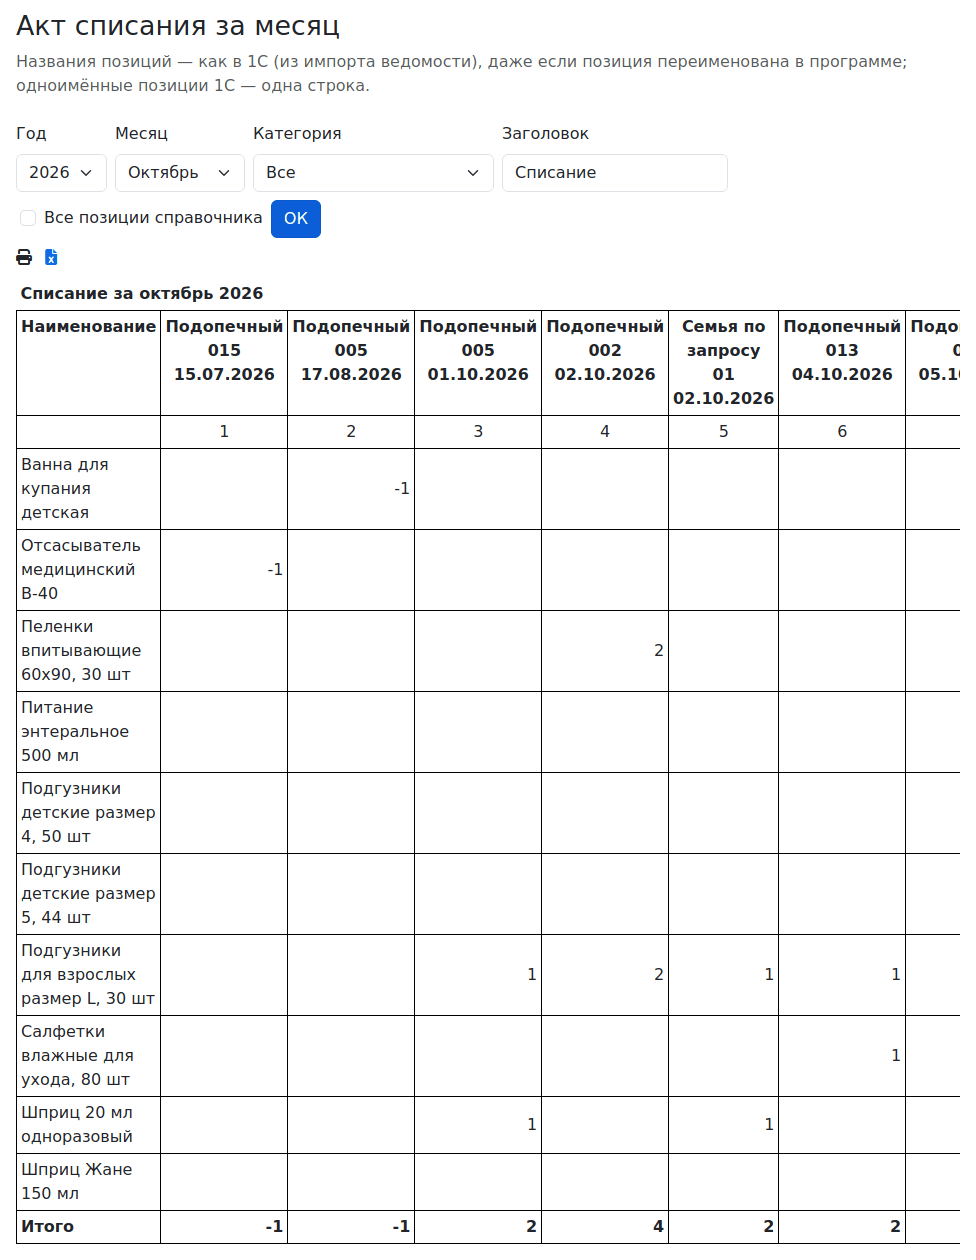
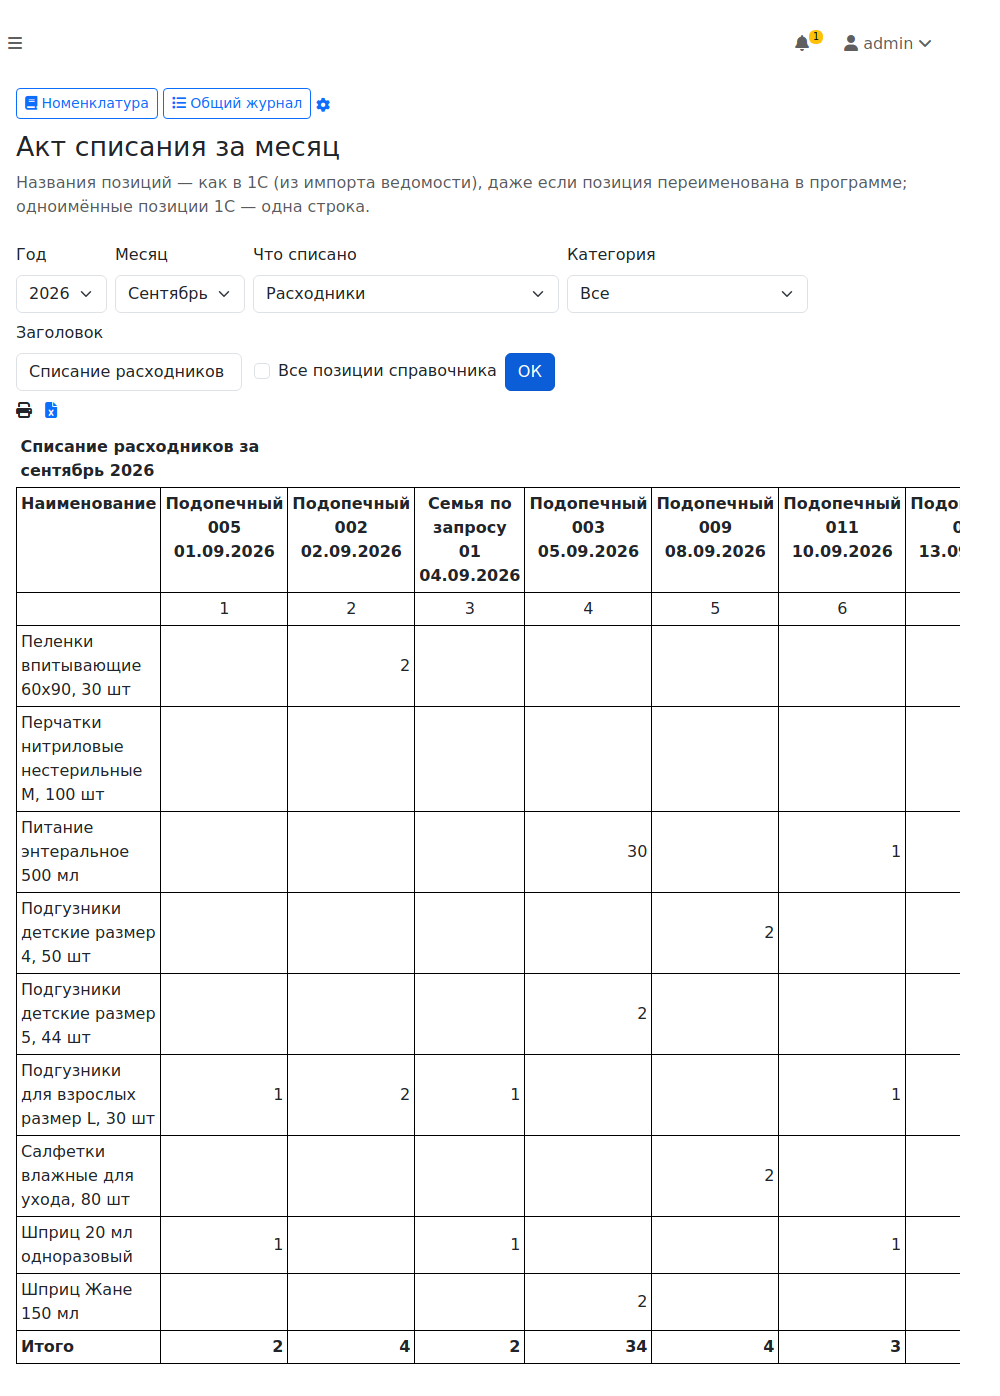
Guides: separate acts, write-offs with reasons, recipient mark, small equipment in reminders
Warehouse guide: "what is written off" in the monthly act, the write-offs report, the recipient mark in the customer list, small equipment in the due reminder; screenshots of the act and the write-offs report on the demo database. General guide and module list updated to match.

diff --git a/docs/GUIDE.ru.md b/docs/GUIDE.ru.md
@@ -56,7 +56,7 @@ SQS_LANG=ru docker compose up -d --build      # http://127.0.0.1:8083, вход 
 
 ## Получатели
 
-Получатель — контрагент в «Справочники → Контрагенты». Признаки получателя — три метки (теги контрагента): «подопечный», «по запросу» (семьи и учреждения вроде пансионата, которым выдают по запросу) и «снят с опеки»; по тегу работает отбор в списке контрагентов и в отчёте «Получатели по месяцам». Справочник проверен на 5 000 контрагентах: список открывается за секунду, подсказка в документе — за доли секунды.
+Получатель — контрагент в «Справочники → Контрагенты». Признаки получателя — три: «подопечный», «по запросу» (семьи и учреждения вроде пансионата, которым выдают по запросу) и «снят с опеки». В профиле благотворительной организации признак выбирается списком «Признак получателя» в форме контрагента и виден рядом с именем в списке; хранится он тегом контрагента, поэтому по нему работает отбор в списке контрагентов («Признаки и теги» над списком) и в отчёте «Получатели по месяцам». В профиле форма контрагента без торговых полей (холдинг, тип цены, ЕГРПОУ, юр. лицо, адрес доставки, подписки, Viber, Telegram) и без режима лидов; тип «Покупатель» называется «Получатель», новый контрагент — сразу получатель. Справочник проверен на 5 000 контрагентах: список открывается за секунду, подсказка в документе — за доли секунды.
 
 ## Расходные материалы
 
@@ -82,7 +82,7 @@ SQS_LANG=ru docker compose up -d --build      # http://127.0.0.1:8083, вход 
 - «Отчёты → Склад → Оборудование: где сейчас» — каждая единица: на каком складе или у какого получателя, с телефоном, адресом, договором и сроком; просроченный срок выделен красным; поиск по модели, инвентарному или заводскому номеру, получателю; заводской номер — отдельной колонкой, в том числе в Excel; над списком — итог по моделям: сколько выдано, на каждом складе («Ремонт», «К списанию»), списано, всего; под списком — «Мелкое оборудование на руках»: позиции без инвентарных номеров, выданные количеством по договору, — у кого, сколько на руках (выдано минус возвращено), последняя выдача, договор и срок;
 - «Отчёты → Склад → Журнал выдачи оборудования» — все выдачи за период с датами возврата; заводской номер — колонкой, поиск по модели, инвентарному или заводскому номеру.
 
-Срок пользования продлевается кнопкой «Продлить» в напоминании на главной и значком в колонке «Срок» отчёта «Где сейчас»: меняется только дата окончания договора, статус «В работе» остаётся, в комментариях договора записывается, кто и когда изменил срок (было → стало). Штатно договор «В работе» не редактируется.
+На главной — напоминание: выданное оборудование, у которого срок договора истёк или истекает в ближайшие две недели; мелкое оборудование, выданное количеством по договору, — тоже, строкой с количеством на руках. Срок пользования продлевается кнопкой «Продлить» в напоминании на главной и значком в колонке «Срок» отчёта «Где сейчас»: меняется только дата окончания договора, статус «В работе» остаётся, в комментариях договора записывается, кто и когда изменил срок (было → стало). Штатно договор «В работе» не редактируется.
 
 ### Перенос истории выдач из таблиц
 
@@ -104,7 +104,8 @@ SQS_LANG=ru docker compose up -d --build      # http://127.0.0.1:8083, вход 
 
 ## Отчёты
 
-- **Акт списания за месяц** — в формате бухгалтерии: строки — позиции, колонки — выдачи «Получатель дд.мм.гггг», итоги; возвраты вычитаются. Отбор по категории (отдельные акты на расходники и оборудование), выгрузка в Excel.
+- **Акт списания за месяц** — в формате бухгалтерии: строки — позиции, колонки — выдачи «Получатель дд.мм.гггг», итоги; возвраты вычитаются. Отдельные акты на расходники и на оборудование: поле «Что списано» — «Расходники» (по умолчанию), «Оборудование (по договорам)» (единицы с инвентарным номером и всё, что выдано по договору, в том числе мелочь количеством) или «Всё вместе»; заголовок по умолчанию меняется вместе с выбором. Отбор по категории, выгрузка в Excel.
+- **Списания с причинами** — документы «Списание ТМЦ» за период: дата, документ, склад, позиция, инвентарный номер, количество и причина (примечание документа). Отбор по категории и по тексту причины, печать и Excel.
 - **Получатели по месяцам** — кто в каком месяце получал: отметка «х», количество или число выдач; отбор по категории, позиции и тегу получателя.
 - **Карточка получателя** — всё по одному подопечному на одной странице: контакты и «кем направлен» (краткое описание договоров), оборудование на руках (единицы и мелкое, договор, срок, кнопка «Продлить»), выданные расходники за период по позициям и по месяцам (за вычетом возвратов; выданное по договору считается оборудованием), выдачи и возвраты со ссылкой на документ, когда можно следующую выдачу по интервалам выдачи. Открывается по ссылке у имени в журнале выдач, значком в справочнике контрагентов или поиском по ФИО и телефону на самой странице; печать и Excel.
 - **Оборот по позициям** — на начало, приход, выдано, возвращено, списано, прочее, на конец, число выдач; с отбором по получателю — что ему выдано за период.

diff --git a/docs/USER_GUIDE.ru.md b/docs/USER_GUIDE.ru.md
@@ -10,7 +10,7 @@
 
 Меню: **Сервисные страницы → Выдача расходников**. Форма короткая, работает и с телефона.
 
-1. «Получатель»: начните вводить имя и выберите из подсказки. Если такого получателя ещё нет, допишите имя полностью: он будет добавлен в справочник.
+1. «Получатель»: начните вводить имя и выберите из подсказки. Если такого получателя ещё нет, допишите имя полностью: он будет добавлен в справочник. Признак («подопечный», «по запросу», «снят с опеки»), адрес и телефон потом укажите в **Справочники → Контрагенты**: щёлкните имя, выберите «Признак получателя», нажмите «Сохранить». Признак виден рядом с именем в списке, по нему можно отобрать список («Признаки и теги» над списком).
 2. Проверьте «Дату» и «Склад».
 3. «Что выдаем»: начните вводить название позиции. В подсказке только то, что есть на складе, с остатком. Укажите количество и нажмите «Добавить». Так добавьте все позиции.
 4. При необходимости заполните «Примечание».
@@ -59,6 +59,10 @@
 ![Списание ТМЦ: причина в примечании](img/outcome.png)
 
 Что увидите: остаток уменьшился; в «Обороте по позициям» — колонка «Списано».
+
+Список списаний с причинами для бухгалтерии — **Отчеты → Склад → Списания с причинами**: «С», «По», при необходимости категория или слово из причины («Причина содержит»), «OK». В таблице дата, документ, склад, позиция, инвентарный номер, количество и причина; значок Excel — над таблицей.
+
+![Списания с причинами за период](img/writeoffs.png)
 
 Неисправное оборудование, которое ещё не решили списывать, переместите на склад «Ремонт» или «К списанию»: **Документы → Склад → Перемещение ТМЦ**. В отчёте «Оборудование: где сейчас» оно будет видно на этом складе.
 
@@ -147,8 +151,8 @@
 Меню: **Отчеты → Склад → Акт списания за месяц**.
 
 1. Выберите «Год» и «Месяц».
-2. «Категория»: для отдельных актов на расходники и на оборудование выберите категорию; «Все» — один акт на всё.
-3. «Заголовок» печатается над таблицей; по умолчанию «Списание».
+2. «Что списано»: «Расходники» (так открывается) — акт на расходные материалы; «Оборудование (по договорам)» — отдельный акт на оборудование: единицы с инвентарным номером и мелочь, выданная по договору; «Всё вместе» — один акт на всё. «Категория» сужает акт ещё больше.
+3. «Заголовок» печатается над таблицей; по умолчанию «Списание расходников» или «Списание оборудования» — меняется вместе с «Что списано», если вы не вписали свой.
 4. Нажмите «OK».
 5. Над таблицей нажмите значок Excel (второй, после принтера) — файл скачается.
 
@@ -158,7 +162,7 @@
 
 ## 8. Напоминания
 
-**Срок пользования оборудованием** — на главной странице (меню «Главная»). В блоке выданное оборудование, у которого срок истёк или истекает в ближайшие две недели: получатель, телефон, договор, «Срок до». Просроченное — красным: «просрочено на N дн.». Позвоните получателю: оформите возврат (раздел 3) или продлите срок.
+**Срок пользования оборудованием** — на главной странице (меню «Главная»). В блоке выданное оборудование, у которого срок истёк или истекает в ближайшие две недели: получатель, телефон, договор, «Срок до». Мелкое оборудование, выданное количеством по договору со сроком, — тоже, с количеством на руках («штук: 2»). Просроченное — красным: «просрочено на N дн.». Позвоните получателю: оформите возврат (раздел 3) или продлите срок.
 
 ![Напоминание на главной: просроченный и истекающие сроки, кнопки «Продлить»](img/main-due.png)
 

diff --git a/docs/MODULES.md b/docs/MODULES.md
@@ -57,11 +57,11 @@ class Hello extends \App\Pages\Base
 
 | Module | What | Tests |
 |---|---|---|
-| `reports` | issue act, recipients by month, turnover by item, below minimum, recipient card | `report-issue-act`, `report-recipient-months`, `report-item-turnover`, `report-below-minimum`, `report-subcategories`, `report-recipient-card` |
+| `reports` | issue act (consumables / equipment), recipients by month, turnover by item, below minimum, write-offs with reasons, recipient card | `report-issue-act`, `report-recipient-months`, `report-item-turnover`, `report-below-minimum`, `report-subcategories`, `report-writeoffs`, `report-recipient-card` |
 | `consumables` | consumables issue, issue intervals (table `sqs_issue_interval`) | `consumables-issue`, `issue-interval` |
 | `import1c` | 1C trial balance import page | `import-1c`, `import-1c-same-name`, `import-1c-date` |
 | `backup` | backup page, scheduled backup to several places (`cli/backup.php` is a wrapper), main page warning (table `sqs_backuplog`) | `backup`, `backup-auto`, `backup-main-warning` |
-| `equipment` | equipment issue by contract, units, where now, issue journal, history import, main page reminder (tables `sqs_unit`, `sqs_eqhistory`) | `equipment-issue`, `equipment-due`, `report-equipment-where`, `report-equipment-journal`, `eqhistory-import`, `eqhistory-write` |
+| `equipment` | equipment issue by contract, units, where now, issue journal, history import, main page reminder incl. small equipment under a contract (tables `sqs_unit`, `sqs_eqhistory`) | `equipment-issue`, `equipment-due`, `report-equipment-where`, `report-equipment-journal`, `eqhistory-import`, `eqhistory-write` |
 
 Platform code outside modules (`www/app/sqs/`): `Hooks`, `Modules`, `Categories`, login security (`Remember`, `LoginGuard`, `Totp`, `TwoFactor` and its pages), the document audit log (`DocAudit`), 1C names (`Item1C`, used by the issue act and the import), serial number stock on the document date (`SerialStock`, called from goods issue and write-off). Its tables are in `www/app/sqs/schema.sql`; like module schemas, the file is applied automatically when it changes (and after restoring a backup).
 
